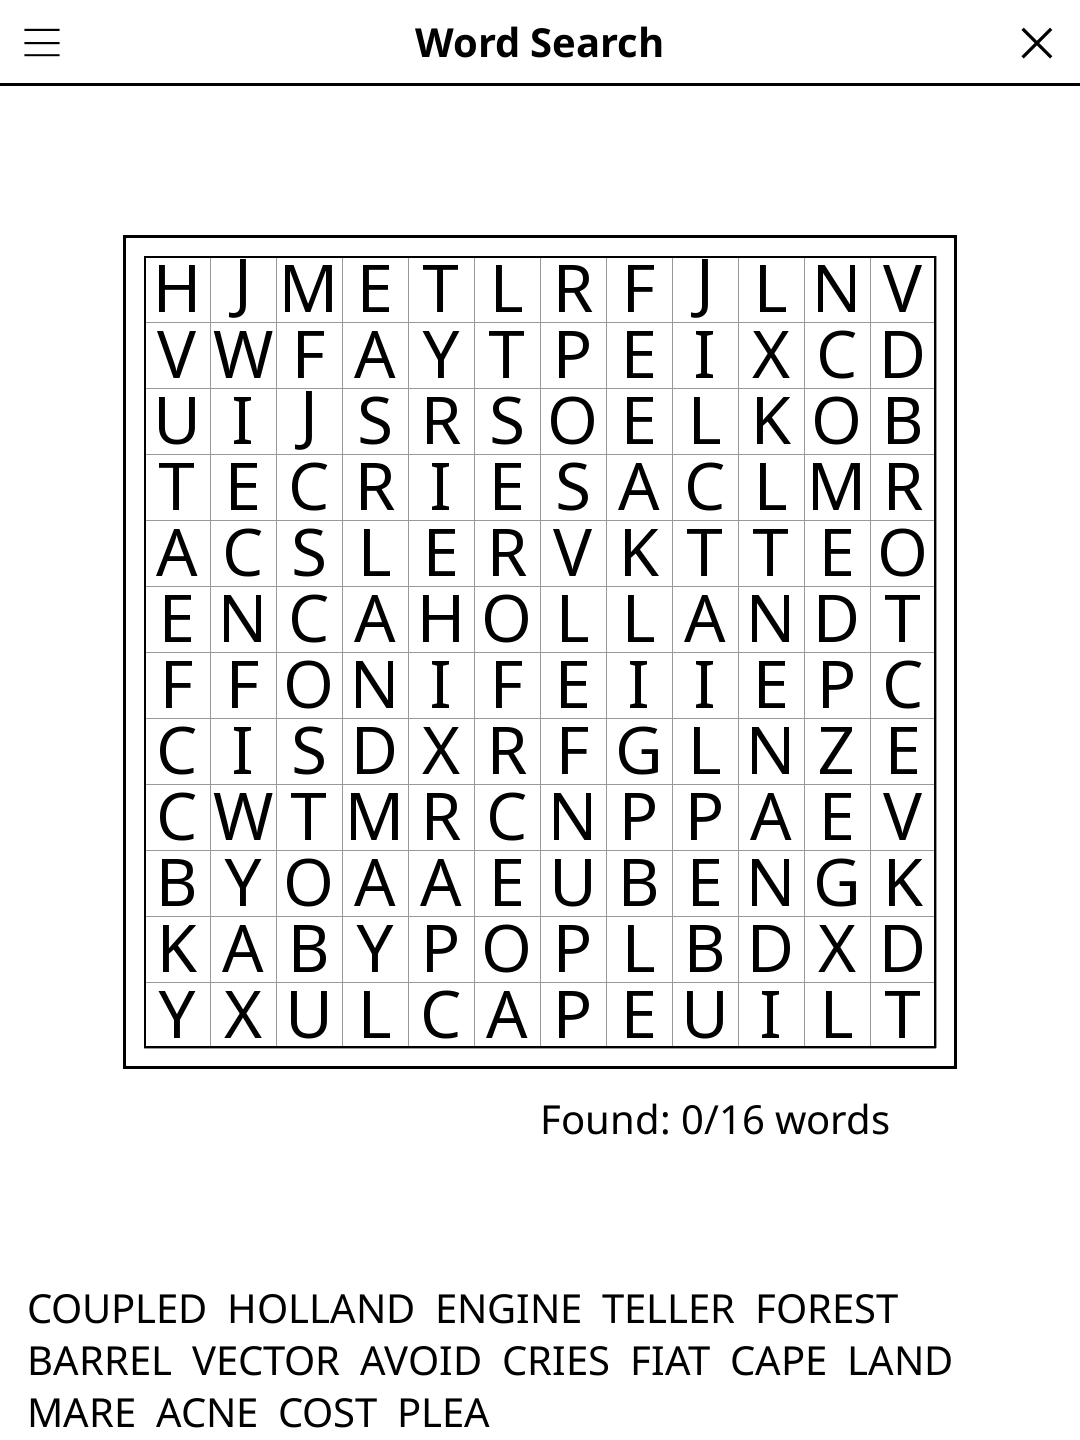
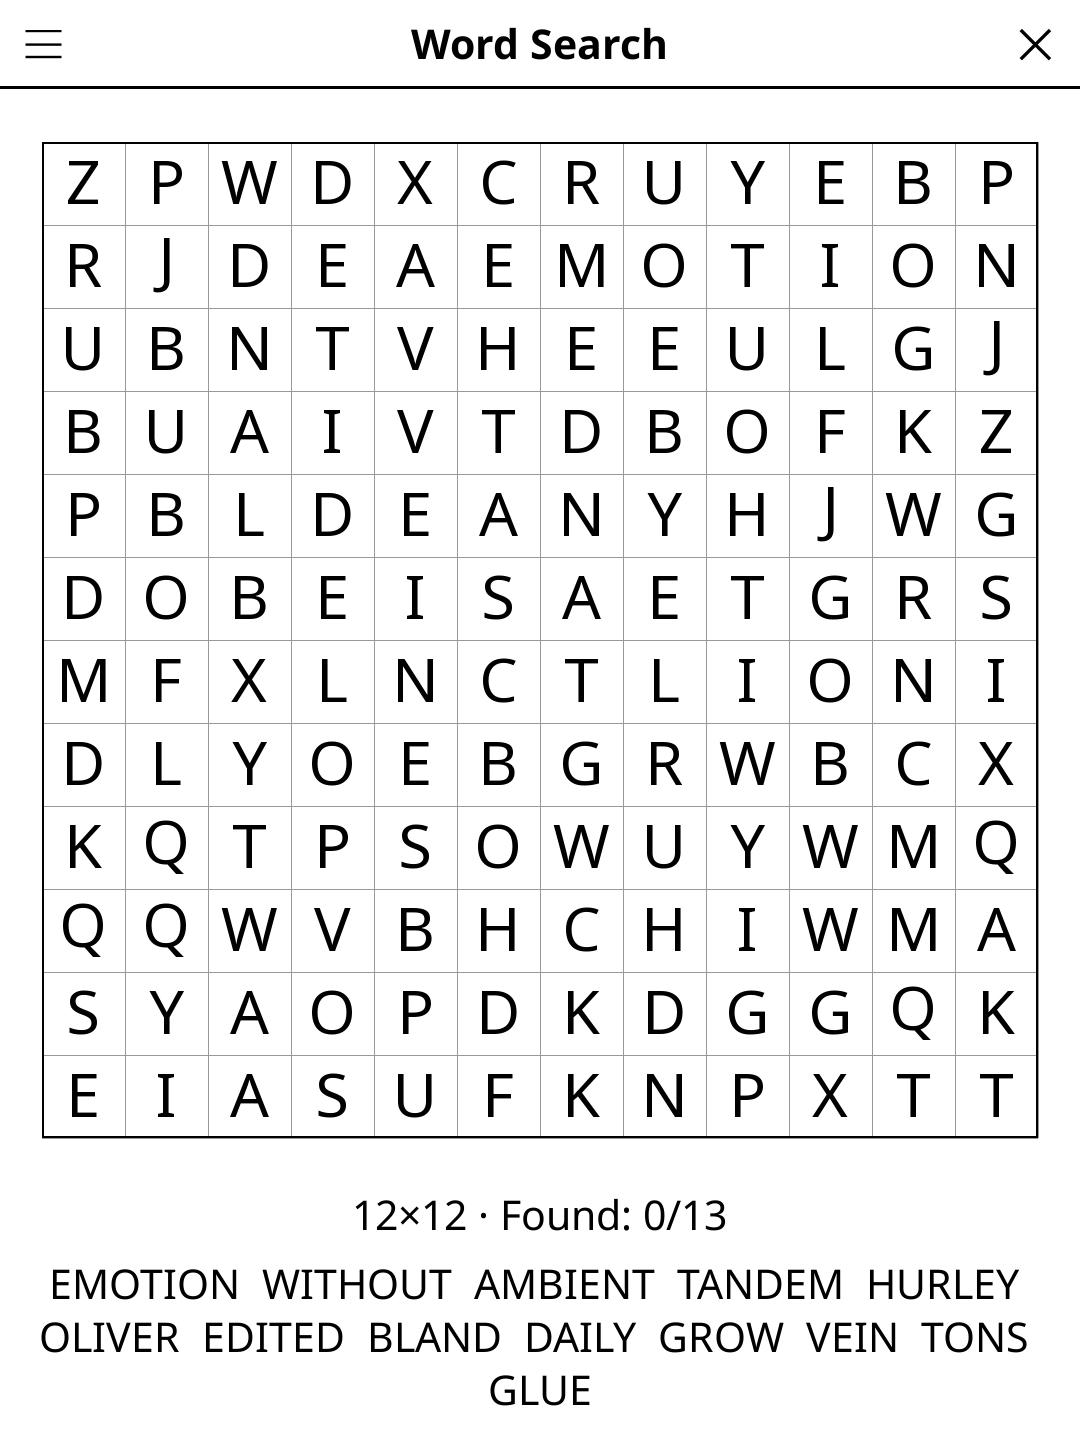
release: 1.2.0 -- redesigned screen, harmonised menu, New game at round end
Screen redesign (full-width action bar, unified pad, status line, larger
board), harmonised title-bar menu, and a "New game" button once the round
is over. See CHANGELOG.md.

Changed region(s): [[0.0306, 0.0938, 0.9472, 1.0], [0.0, 0.0, 1.0, 0.0625], [0.4278, 0.0938, 0.4889, 0.125]]

diff --git a/CHANGELOG.md b/CHANGELOG.md
@@ -2,6 +2,23 @@
 
 All notable changes to this project will be documented in this file.
 
+## [1.2.0] - 2026-10-30
+
+### Changed
+- Redesigned play screen: the grid is larger, filling the room the word list
+  leaves, with a single frame around it. The word list's height is reserved
+  up front, so ticking words off never pushes it off the screen.
+- The status line reads "12×12 · Found: 3/10" and wraps in landscape instead
+  of being cut off.
+- The title-bar menu shows "Language: …" (was the bare "EN" / "FR").
+- Once every word is found, "New game" appears under the word list, so the
+  next round no longer needs the menu.
+
+### Fixed
+- The last word found was never ticked in the list.
+- Letters were sized from the cell and then scaled again for the screen's
+  DPI, so they could overflow their cells; they are now fitted and centred.
+
 ## [1.1.19] - 2026-10-07
 
 ### Fixed

diff --git a/README.md b/README.md
@@ -30,7 +30,7 @@ Find all the hidden words in the letter grid. Words may run in any of 8 directio
 |--------|-----|
 | Mark word start | Tap first letter |
 | Mark word end | Tap last letter |
-| New game | Tap **New** |
+| New game | Tap **New game** |
 | Show rules | Tap **Rules** |
 
 ## License
